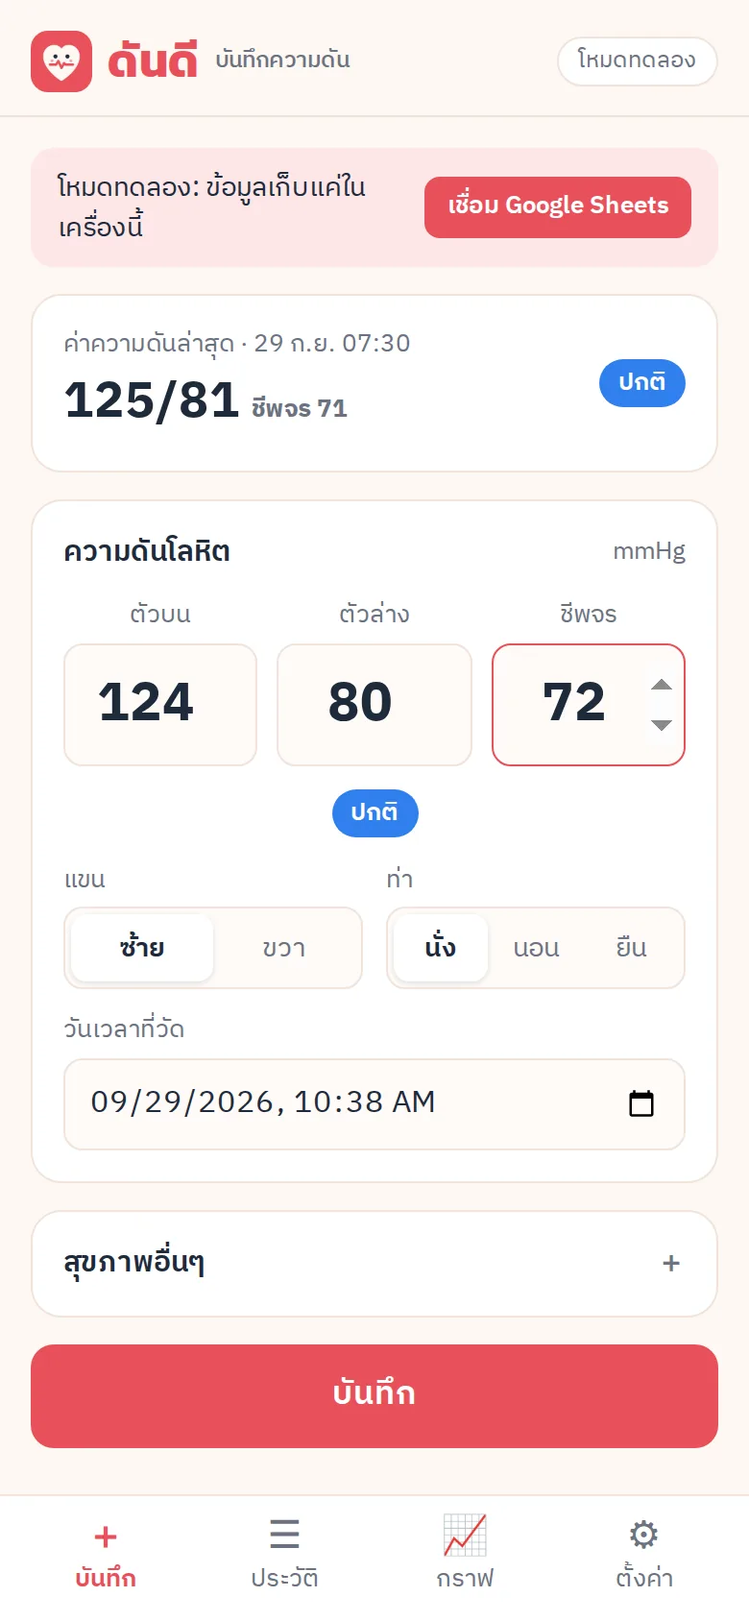
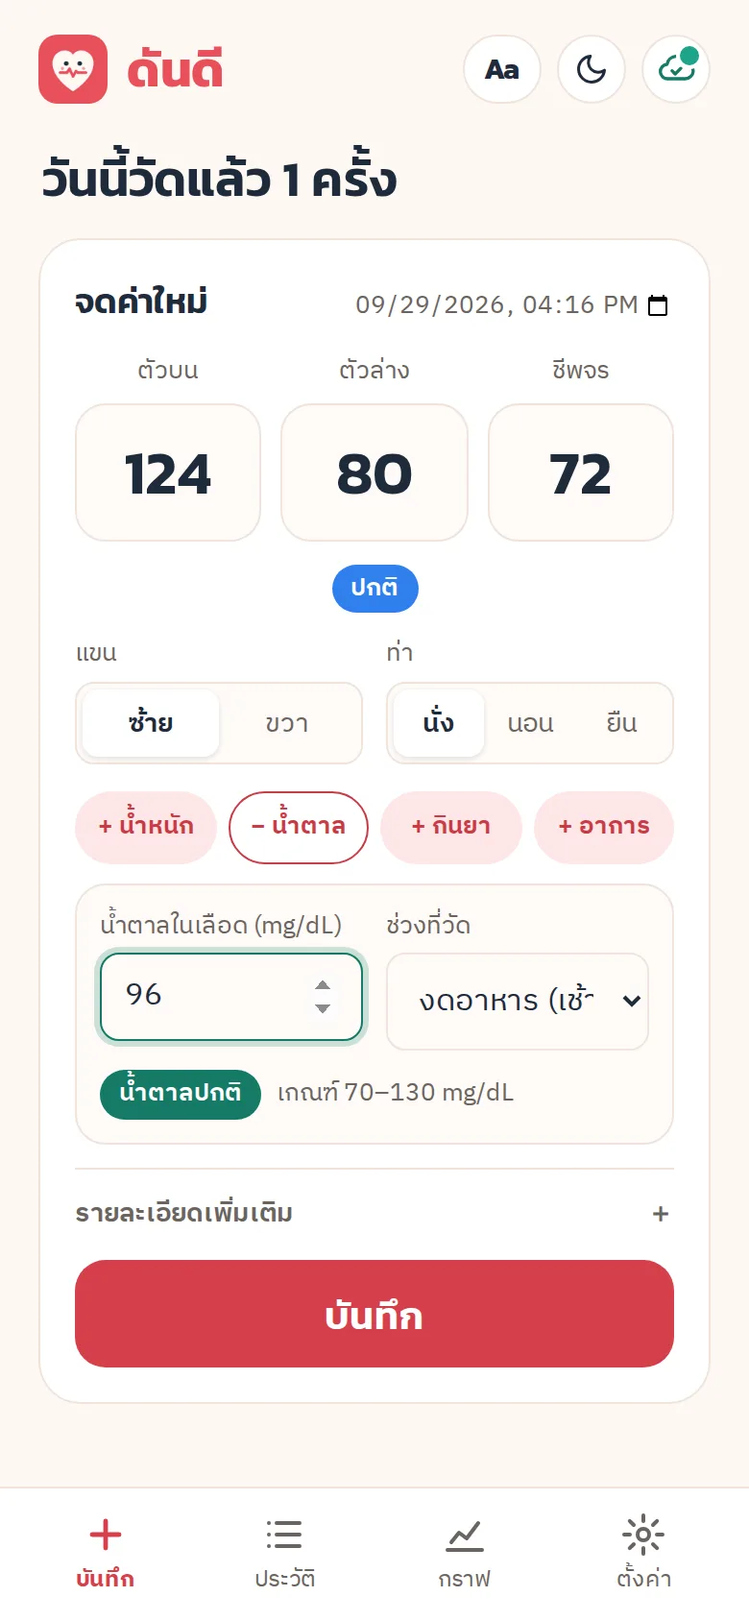
Landing: new features, fresh screenshots, PDF report section, pricing 199/399
Claude-Session: https://claude.ai/code/session_01QuzVCuffMu9WfKb67FHoZ9

diff --git a/landing.html b/landing.html
@@ -7,7 +7,7 @@
 <meta name="description" content="แอปจดค่าความดันโลหิต ดูแนวโน้มเป็นกราฟ เก็บข้อมูลใน Google Sheets ของคุณเอง ใช้ได้ทั้งมือถือและคอมพิวเตอร์">
 <meta name="theme-color" content="#E8505B">
 <meta property="og:title" content="ดันดี — ความดันดี ชีวิตดี">
-<meta property="og:description" content="จดค่าความดันในไม่กี่วินาที ดูกราฟแนวโน้ม ข้อมูลอยู่ใน Google Sheets ของคุณเอง">
+<meta property="og:description" content="จดความดัน น้ำตาล ยา ดูกราฟ ส่งรายงาน PDF ให้หมอ ข้อมูลอยู่ใน Google Sheets ของคุณเอง จ่ายครั้งเดียว ไม่มีรายเดือน">
 <meta property="og:image" content="https://bearpanda2012-wq.github.io/health-log/assets/og.png">
 <meta property="og:type" content="website">
 <meta name="twitter:card" content="summary_large_image">
@@ -95,7 +95,7 @@ section{padding:72px 0}
 .screens{background:var(--bg2)}
 .shots{display:flex;gap:28px;justify-content:center;align-items:flex-start;flex-wrap:wrap}
 .shot{text-align:center}
-.shot .phone{width:250px;border-radius:38px;padding:10px}
+.shot .phone{width:220px;border-radius:38px;padding:10px}
 .shot .phone img{border-radius:28px}
 .shot p{margin-top:16px;font-weight:600}
 .shot small{display:block;color:var(--muted);font-weight:400;font-size:14px}
@@ -142,6 +142,30 @@ section{padding:72px 0}
 .final p{opacity:.92;margin-bottom:26px}
 .final .btn-main{background:#fff;color:var(--coral-d)}
 
+.report .rp-wrap{display:grid;grid-template-columns:1fr 1.05fr;gap:44px;align-items:center}
+.report h2{font-size:clamp(28px,4vw,38px);margin-bottom:10px}
+.report p{color:var(--muted)}
+.ticks{list-style:none;margin:16px 0;display:grid;gap:8px}
+.ticks li{padding-left:28px;position:relative}
+.ticks li::before{content:"✓";position:absolute;left:0;top:0;color:#fff;background:var(--teal);width:20px;height:20px;border-radius:99px;font-size:12px;font-weight:700;display:grid;place-items:center;margin-top:4px}
+.muted-s{font-size:15px}
+.paper{background:#fff;border-radius:14px;padding:10px;box-shadow:0 30px 60px -24px rgba(30,42,58,.35);border:1px solid var(--line);transform:rotate(1.2deg)}
+.paper img{display:block;width:100%;height:auto;border-radius:6px}
+@media (max-width:860px){.report .rp-wrap{grid-template-columns:1fr}.paper{transform:none}}
+.plans{display:grid;grid-template-columns:repeat(2,minmax(0,380px));gap:20px;justify-content:center}
+@media (max-width:760px){.plans{grid-template-columns:1fr}}
+.plan{position:relative;background:var(--card);border:1px solid var(--line);border-radius:24px;padding:30px 26px;display:flex;flex-direction:column}
+.plan.hot{border:2px solid var(--coral);box-shadow:0 24px 48px -24px rgba(232,80,91,.45)}
+.plan .tag{position:absolute;top:-14px;left:50%;transform:translateX(-50%);background:var(--coral);color:#fff;font-size:13px;font-weight:700;padding:4px 14px;border-radius:99px;white-space:nowrap}
+.plan h3{font-size:22px}
+.plan .price{font-family:'Kanit';font-weight:700;font-size:52px;line-height:1.1;margin-top:6px}
+.plan .price span{font-size:20px;color:var(--muted);font-weight:600}
+.plan .sub{color:var(--muted);font-size:15px}
+.plan .ticks{flex:1}
+.plan .btn{width:100%;margin-top:8px}
+.price-note{text-align:center;color:var(--muted);margin-top:22px}
+.price-note a{color:var(--coral-d);font-weight:600}
+.final .fbtn{background:transparent;color:#fff;border-color:rgba(255,255,255,.7)}
 footer{padding:40px 0 60px;color:var(--muted);font-size:14px;text-align:center}
 footer .brand{justify-content:center;font-size:22px;margin-bottom:10px}
 footer p{max-width:640px;margin:6px auto}
@@ -155,6 +179,7 @@ footer p{max-width:640px;margin:6px auto}
     <div class="links">
       <a href="#features">ฟีเจอร์</a>
       <a href="#how">วิธีใช้</a>
+      <a href="#price">ราคา</a>
       <a href="#faq">คำถาม</a>
       <a class="btn btn-main" href="./">เปิดแอป</a>
     </div>
@@ -166,17 +191,17 @@ footer p{max-width:640px;margin:6px auto}
     <div>
       <div class="pill">❤ แอปจดความดันสำหรับทุกบ้าน</div>
       <h1>ความดัน<em>ดี</em><br>ชีวิต<em>ดี</em></h1>
-      <p class="lead">จดค่าความดันในไม่กี่วินาที ดูแนวโน้มเป็นกราฟ ส่งให้หมอดูได้ทันที ข้อมูลทั้งหมดเก็บไว้ใน Google Sheets ของคุณเอง</p>
+      <p class="lead">จดความดัน น้ำตาล และยาในไม่กี่วินาที ดูกราฟแนวโน้ม กดปุ่มเดียวได้รายงาน PDF ส่งหมอ ข้อมูลทั้งหมดอยู่ใน Google Sheets ของคุณเอง</p>
       <div class="cta">
         <a class="btn btn-main" href="./">ลองใช้ฟรี →</a>
-        <a class="btn btn-ghost" href="#how">ดูวิธีเริ่มต้น</a>
+        <a class="btn btn-ghost" href="#price">ดูราคา</a>
       </div>
-      <p class="note">ไม่ต้องสมัครสมาชิก · เปิดในเบราว์เซอร์ได้เลย · ใช้ได้ทั้งมือถือและคอมพิวเตอร์</p>
+      <p class="note">จ่ายครั้งเดียว ใช้ได้ตลอด · ไม่มีรายเดือน · ไม่ต้องสมัครสมาชิก</p>
     </div>
     <div class="hero-art">
       <div class="blob"></div>
       <div class="phone"><img src="assets/screen-add.webp" alt="หน้าจดค่าความดันของแอปดันดี" width="390" height="844"></div>
-      <div class="float f1"><span class="muted"><span class="dot" style="background:var(--blue)"></span>วันนี้</span><b>124/80</b></div>
+      <div class="float f1"><span class="muted"><span class="dot" style="background:var(--teal)"></span>น้ำตาล</span><b>96 ปกติ</b></div>
       <div class="float f2"><span><span class="dot" style="background:var(--teal)"></span>เฉลี่ย 30 วัน</span><b>130/84</b></div>
     </div>
   </div>
@@ -187,7 +212,8 @@ footer p{max-width:640px;margin:6px auto}
     <span>🔒 ข้อมูลอยู่ในชีตของคุณ</span>
     <span>📱 เพิ่มไว้หน้าจอโฮมได้</span>
     <span>🚫 ไม่มีโฆษณา</span>
-    <span>🌙 รองรับโหมดมืด</span>
+    <span>📴 ใช้ได้แม้ไม่มีเน็ต</span>
+    <span>💳 จ่ายครั้งเดียว</span>
   </div>
 </div>
 
@@ -196,15 +222,18 @@ footer p{max-width:640px;margin:6px auto}
     <div class="sec-head">
       <div class="kicker">ฟีเจอร์</div>
       <h2>ครบทุกอย่างที่ต้องใช้ ไม่มีอะไรเกิน</h2>
-      <p>ออกแบบมาให้ผู้สูงอายุก็ใช้ได้ ตัวเลขใหญ่ อ่านง่าย กดไม่กี่ครั้ง</p>
+      <p>ออกแบบมาให้ผู้สูงอายุก็ใช้ได้ ตัวเลขใหญ่ อ่านง่าย กดไม่กี่ครั้ง แต่ละเอียดพอให้หมอใช้ได้จริง</p>
     </div>
     <div class="grid3">
-      <div class="feat"><div class="ic c1">🎯</div><h3>รู้ระดับทันที</h3><p>พิมพ์ตัวเลขปุ๊บ ขึ้นป้ายสีบอกระดับความดันปั๊บ ถ้าค่าสูงมากจะมีคำเตือนให้วัดซ้ำ</p></div>
-      <div class="feat"><div class="ic c2">📈</div><h3>กราฟแนวโน้ม</h3><p>ดูย้อนหลัง 7, 30, 90 วัน มีเส้นเกณฑ์ 140/90 ให้เห็นชัดว่าดีขึ้นหรือแย่ลง</p></div>
-      <div class="feat"><div class="ic c3">🧮</div><h3>สรุปให้อัตโนมัติ</h3><p>ค่าเฉลี่ยความดัน ชีพจร และจำนวนครั้งที่ค่าสูงเกินเกณฑ์ คำนวณให้ทุกช่วงเวลา</p></div>
-      <div class="feat"><div class="ic c4">🩺</div><h3>จดได้มากกว่าความดัน</h3><p>น้ำหนัก น้ำตาลในเลือด อุณหภูมิ ออกซิเจน ชั่วโมงนอน การกินยา อาการ และโน้ต</p></div>
-      <div class="feat"><div class="ic c1">👩⚕</div><h3>ส่งให้หมอง่าย</h3><p>ดาวน์โหลดเป็นไฟล์ CSV เปิดใน Excel ได้ หรือเปิด Google Sheet ให้หมอดูตรงๆ</p></div>
-      <div class="feat"><div class="ic c2">📲</div><h3>ใช้เหมือนแอป</h3><p>เพิ่มไอคอนไว้หน้าจอโฮม เปิดปุ๊บจดได้เลย ข้อมูลตรงกันทั้งมือถือและคอมพิวเตอร์</p></div>
+      <div class="feat"><div class="ic c1">🎯</div><h3>รู้ระดับทันที</h3><p>พิมพ์ตัวเลขปุ๊บ ขึ้นป้ายสีบอกระดับความดันและน้ำตาลปั๊บ ต่ำ ปกติ หรือสูง ถ้าค่าสูงมากจะเตือนให้วัดซ้ำ</p></div>
+      <div class="feat"><div class="ic c2">📄</div><h3>รายงาน PDF ให้หมอ</h3><p>กดปุ่มเดียว ได้สรุปค่าเฉลี่ย กราฟ และตารางทุกรายการ มีสีบอกระดับ ส่ง LINE ให้หมอหรือพิมพ์ไปวันนัดได้เลย</p></div>
+      <div class="feat"><div class="ic c3">📈</div><h3>กราฟแยกโซนสี</h3><p>ดูย้อนหลัง 7–90 วัน หรือเลือกวันเอง โซนเขียว ส้ม แดง เห็นชัดว่าวันไหนหลุดเกณฑ์</p></div>
+      <div class="feat"><div class="ic c4">💊</div><h3>จดยาได้ละเอียด</h3><p>ติ๊กมื้อเช้า กลางวัน เย็น เลือกก่อนหรือหลังอาหาร ใส่ชื่อยาได้ แอปจำให้ครั้งหน้าไม่ต้องพิมพ์ซ้ำ</p></div>
+      <div class="feat"><div class="ic c1">🩺</div><h3>จดได้มากกว่าความดัน</h3><p>น้ำตาลในเลือด น้ำหนัก อุณหภูมิ ออกซิเจน ชั่วโมงนอน อาการ และโน้ต ครบในที่เดียว</p></div>
+      <div class="feat"><div class="ic c2">🗓</div><h3>ปฏิทินและสรุปสัปดาห์</h3><p>ดูเป็นรายการ ปฏิทินจุดสี หรือสรุปรายสัปดาห์ เทียบเช้ากับเย็น และดูว่ากินยาครบกี่วัน</p></div>
+      <div class="feat"><div class="ic c3">🔠</div><h3>ตัวหนังสือใหญ่ได้</h3><p>กดปุ่ม Aa เพื่อขยายตัวหนังสือ 3 ระดับ เหมาะกับผู้สูงอายุ มีโหมดมืดสบายตาตอนกลางคืน</p></div>
+      <div class="feat"><div class="ic c4">📴</div><h3>ไม่มีเน็ตก็จดได้</h3><p>บันทึกไว้ในเครื่องก่อน พอมีเน็ตแอปส่งเข้าชีตให้เอง ไม่มีข้อมูลหาย</p></div>
+      <div class="feat"><div class="ic c1">✏</div><h3>แก้ไขย้อนหลังได้</h3><p>พิมพ์ผิดก็แก้ได้ทันที ข้อมูลตรงกันทั้งมือถือ แท็บเล็ต และคอมพิวเตอร์</p></div>
     </div>
   </div>
 </section>
@@ -216,10 +245,30 @@ footer p{max-width:640px;margin:6px auto}
       <h2>เรียบง่าย ตัวใหญ่ อ่านสบายตา</h2>
     </div>
     <div class="shots">
-      <div class="shot"><div class="phone"><img src="assets/screen-add.webp" alt="หน้าจดค่า" loading="lazy" width="390" height="844"></div><p>จดค่า<small>กรอกตัวเลข 3 ช่องแล้วกดบันทึก</small></p></div>
-      <div class="shot"><div class="phone"><img src="assets/screen-history.webp" alt="หน้าประวัติ" loading="lazy" width="390" height="844"></div><p>ประวัติและสรุป<small>ค่าเฉลี่ยและรายการแยกตามวัน</small></p></div>
-      <div class="shot"><div class="phone"><img src="assets/screen-chart.webp" alt="หน้ากราฟ" loading="lazy" width="390" height="844"></div><p>กราฟแนวโน้ม<small>เห็นชัดว่าความดันไปทางไหน</small></p></div>
+      <div class="shot"><div class="phone"><img src="assets/screen-add.webp" alt="หน้าจดค่าความดันและน้ำตาล" loading="lazy" width="390" height="844"></div><p>จดค่า<small>ป้ายสีบอกระดับทันที</small></p></div>
+      <div class="shot"><div class="phone"><img src="assets/screen-history.webp" alt="หน้าประวัติ" loading="lazy" width="390" height="844"></div><p>ประวัติ<small>แท็กสีแยกประเภท แก้ไขได้</small></p></div>
+      <div class="shot"><div class="phone"><img src="assets/screen-sugar.webp" alt="กราฟน้ำตาลแบบโซนสี" loading="lazy" width="390" height="844"></div><p>กราฟโซนสี<small>เห็นชัดว่าวันไหนหลุดเกณฑ์</small></p></div>
+      <div class="shot"><div class="phone"><img src="assets/screen-big.webp" alt="โหมดตัวหนังสือใหญ่" loading="lazy" width="390" height="844"></div><p>ตัวหนังสือใหญ่<small>กดปุ่ม Aa ขยายได้ 3 ระดับ</small></p></div>
     </div>
+  </div>
+</section>
+
+<section class="report">
+  <div class="wrap rp-wrap">
+    <div>
+      <div class="kicker">รายงานให้หมอ</div>
+      <h2>ไปหาหมอครั้งหน้า ยื่นรายงานนี้ได้เลย</h2>
+      <p>ไม่ต้องจดสมุด ไม่ต้องเปิดมือถือไล่ให้หมอดูทีละวัน ดันดีสรุปให้ในหน้าเดียว</p>
+      <ul class="ticks">
+        <li>ค่าเฉลี่ย สูงสุด ต่ำสุด และจำนวนครั้งที่เกิน 140/90</li>
+        <li>เทียบค่าช่วงเช้ากับบ่าย-เย็น</li>
+        <li>น้ำตาลแยกต่ำ ปกติ สูง พร้อมสีบอกระดับ</li>
+        <li>ชื่อยาที่กิน และจำนวนวันที่กินยาครบ</li>
+        <li>กราฟความดัน กราฟน้ำตาล และตารางทุกรายการ</li>
+      </ul>
+      <p class="muted-s">เลือกช่วง 7, 30 หรือ 90 วัน บันทึกเป็น PDF ส่ง LINE หรือพิมพ์ออกกระดาษ</p>
+    </div>
+    <div class="paper"><img src="assets/report.webp" alt="ตัวอย่างรายงาน PDF ให้หมอ" loading="lazy" width="911" height="798"></div>
   </div>
 </section>
 
@@ -269,6 +318,44 @@ footer p{max-width:640px;margin:6px auto}
   </div>
 </section>
 
+<section id="price" style="padding-top:0">
+  <div class="wrap">
+    <div class="sec-head">
+      <div class="kicker">ราคา</div>
+      <h2>จ่ายครั้งเดียว ใช้ได้ตลอด</h2>
+      <p>ไม่มีค่ารายเดือน ไม่มีโฆษณา ข้อมูลอยู่ในบัญชี Google ของคุณเอง</p>
+    </div>
+    <div class="plans">
+      <div class="plan">
+        <h3>ตั้งค่าเอง</h3>
+        <div class="price">199<span> บาท</span></div>
+        <p class="sub">เหมาะกับคนที่ใช้ Google ชีตเป็น</p>
+        <ul class="ticks">
+          <li>ชีตดันดีพร้อมใช้ ทำสำเนาได้ทันที</li>
+          <li>วิดีโอสอนตั้งค่าทีละขั้น</li>
+          <li>ได้ทุกฟีเจอร์ รวมรายงาน PDF</li>
+          <li>อัปเดตฟรี</li>
+        </ul>
+        <a class="btn btn-ghost" href="LINE_URL" data-line>ซื้อผ่าน LINE</a>
+      </div>
+      <div class="plan hot">
+        <div class="tag">แนะนำสำหรับผู้สูงอายุ</div>
+        <h3>ตั้งค่าให้</h3>
+        <div class="price">399<span> บาท</span></div>
+        <p class="sub">เราช่วยตั้งให้จนใช้งานได้</p>
+        <ul class="ticks">
+          <li>ทุกอย่างในแบบตั้งค่าเอง</li>
+          <li>ช่วยตั้งค่าผ่าน LINE หรือแชร์หน้าจอ</li>
+          <li>เชื่อมมือถือให้ พร้อมเพิ่มไอคอนหน้าจอโฮม</li>
+          <li>สอนใช้จนคล่อง</li>
+        </ul>
+        <a class="btn btn-main" href="LINE_URL" data-line>ซื้อผ่าน LINE</a>
+      </div>
+    </div>
+    <p class="price-note">ไม่แน่ใจ? <a href="./">ลองใช้โหมดทดลองฟรี</a> ได้ก่อนตัดสินใจ</p>
+  </div>
+</section>
+
 <section id="faq" style="padding-top:0">
   <div class="wrap">
     <div class="sec-head">
@@ -278,7 +365,10 @@ footer p{max-width:640px;margin:6px auto}
     <div class="faq">
       <details><summary>ใช้กับเครื่องวัดความดันยี่ห้อไหนได้บ้าง?</summary><p>ได้ทุกยี่ห้อ เพราะคุณพิมพ์ตัวเลขที่เครื่องวัดได้ลงในแอปเอง ไม่ต้องเชื่อมบลูทูธ</p></details>
       <details><summary>ต้องติดตั้งจาก App Store หรือ Play Store ไหม?</summary><p>ไม่ต้อง ดันดีเป็นเว็บแอป เปิดในเบราว์เซอร์ได้เลย แล้วกด "เพิ่มไปยังหน้าจอโฮม" จะได้ไอคอนเหมือนแอปทั่วไป</p></details>
+      <details><summary>จ่ายแล้วต้องจ่ายเพิ่มทุกเดือนไหม?</summary><p>ไม่ต้อง จ่ายครั้งเดียวใช้ได้ตลอด เพราะข้อมูลอยู่ใน Google ชีตของคุณเอง เราไม่มีค่าเซิร์ฟเวอร์ที่ต้องเก็บจากคุณ</p></details>
+      <details><summary>ใช้กับผู้สูงอายุได้ไหม ตั้งค่ายากไหม?</summary><p>ใช้งานประจำวันง่ายมาก แค่พิมพ์ตัวเลขแล้วกดบันทึก และขยายตัวหนังสือได้ ส่วนการตั้งค่าครั้งแรกใช้เวลาราว 5–10 นาที ถ้าไม่สะดวกเลือกแบบ "ตั้งค่าให้" เราช่วยตั้งจนใช้ได้</p></details>
       <details><summary>ข้อมูลเก็บที่ไหน ปลอดภัยไหม?</summary><p>ในโหมดทดลอง ข้อมูลอยู่ในเบราว์เซอร์เครื่องนั้นเครื่องเดียว เมื่อเชื่อม Google Sheets ข้อมูลจะอยู่ในบัญชี Google ของคุณเอง ดันดีไม่ได้เก็บข้อมูลไว้ที่อื่น</p></details>
+      <details><summary>ถ้าไม่มีอินเทอร์เน็ตล่ะ?</summary><p>ยังจดได้ตามปกติ แอปเก็บไว้ในเครื่องก่อน แล้วส่งเข้าชีตให้เองเมื่อมีเน็ต</p></details>
       <details><summary>ใช้หลายเครื่องพร้อมกันได้ไหม?</summary><p>ได้ เมื่อเชื่อม Google Sheets แล้ว สแกน QR จากหน้าตั้งค่าไปเปิดบนเครื่องอื่น ข้อมูลจะตรงกันทุกเครื่อง</p></details>
       <details><summary>ใช้แทนการไปหาหมอได้ไหม?</summary><p>ไม่ได้ ดันดีเป็นเครื่องมือช่วยจดและดูแนวโน้มเท่านั้น ไม่ใช่การวินิจฉัย ค่าเป้าหมายและการปรับยาควรปรึกษาแพทย์เสมอ</p></details>
       <details><summary>ถ้าค่าความดันสูงมากต้องทำอย่างไร?</summary><p>นั่งพัก 5 นาทีแล้ววัดซ้ำ ถ้ายังสูงมากและมีอาการเจ็บหน้าอก ปวดหัวรุนแรง แขนขาอ่อนแรง พูดไม่ชัด หรือตามัว ให้โทร 1669 หรือไปโรงพยาบาลทันที</p></details>
@@ -291,8 +381,8 @@ footer p{max-width:640px;margin:6px auto}
     <div class="final">
       <img src="icon-192.png" alt="">
       <h2>เริ่มจดวันนี้ ความดันดีทุกวัน</h2>
-      <p>ลองใช้ฟรีได้ทันที ไม่ต้องสมัคร ไม่ต้องติดตั้ง</p>
-      <a class="btn btn-main" href="./">เปิดแอปดันดี →</a>
+      <p>ลองใช้ฟรีได้ทันที ชอบแล้วค่อยซื้อ จ่ายครั้งเดียว 199 บาท</p>
+      <div class="cta" style="justify-content:center"><a class="btn btn-main" href="./">ลองใช้ฟรี →</a><a class="btn btn-ghost fbtn" href="LINE_URL" data-line>ซื้อผ่าน LINE</a></div>
     </div>
   </div>
 </section>
@@ -305,5 +395,13 @@ footer p{max-width:640px;margin:6px auto}
   </div>
 </footer>
 
+<script>
+/* ใส่ลิงก์ LINE OA ตรงนี้ที่เดียว เช่น https://lin.ee/xxxx */
+var LINE_URL = '';
+document.querySelectorAll('[data-line]').forEach(function(a){
+  if (LINE_URL) { a.href = LINE_URL; a.target = '_blank'; a.rel = 'noopener'; }
+  else { a.href = '#price'; a.addEventListener('click', function(e){ e.preventDefault(); alert('ช่องทางสั่งซื้อกำลังจะเปิดเร็ว ๆ นี้'); }); }
+});
+</script>
 </body>
 </html>
